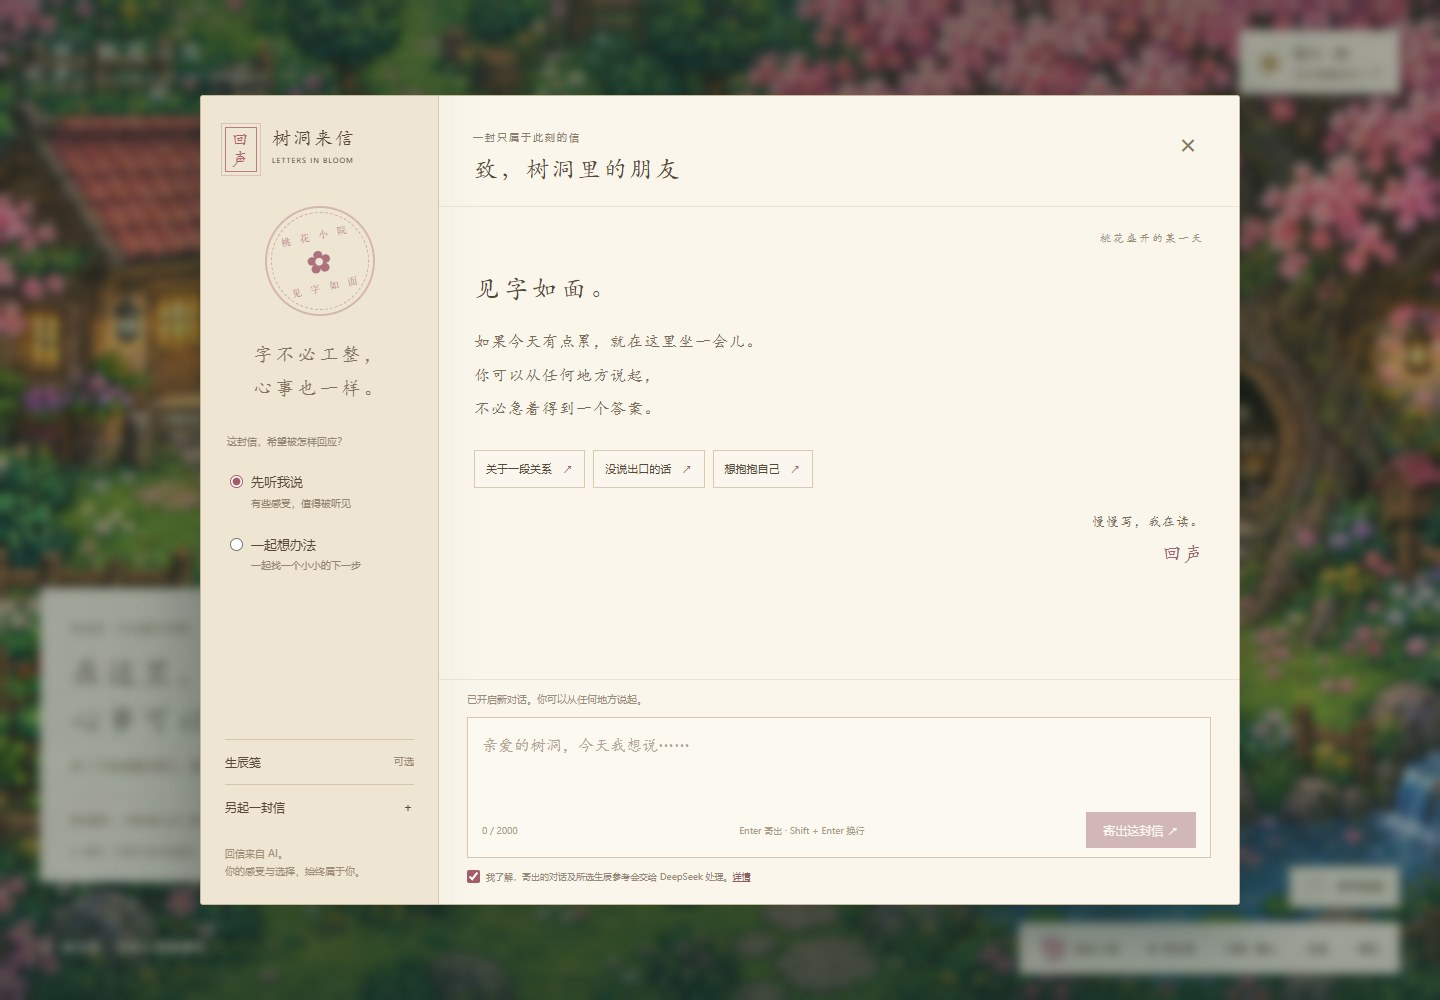
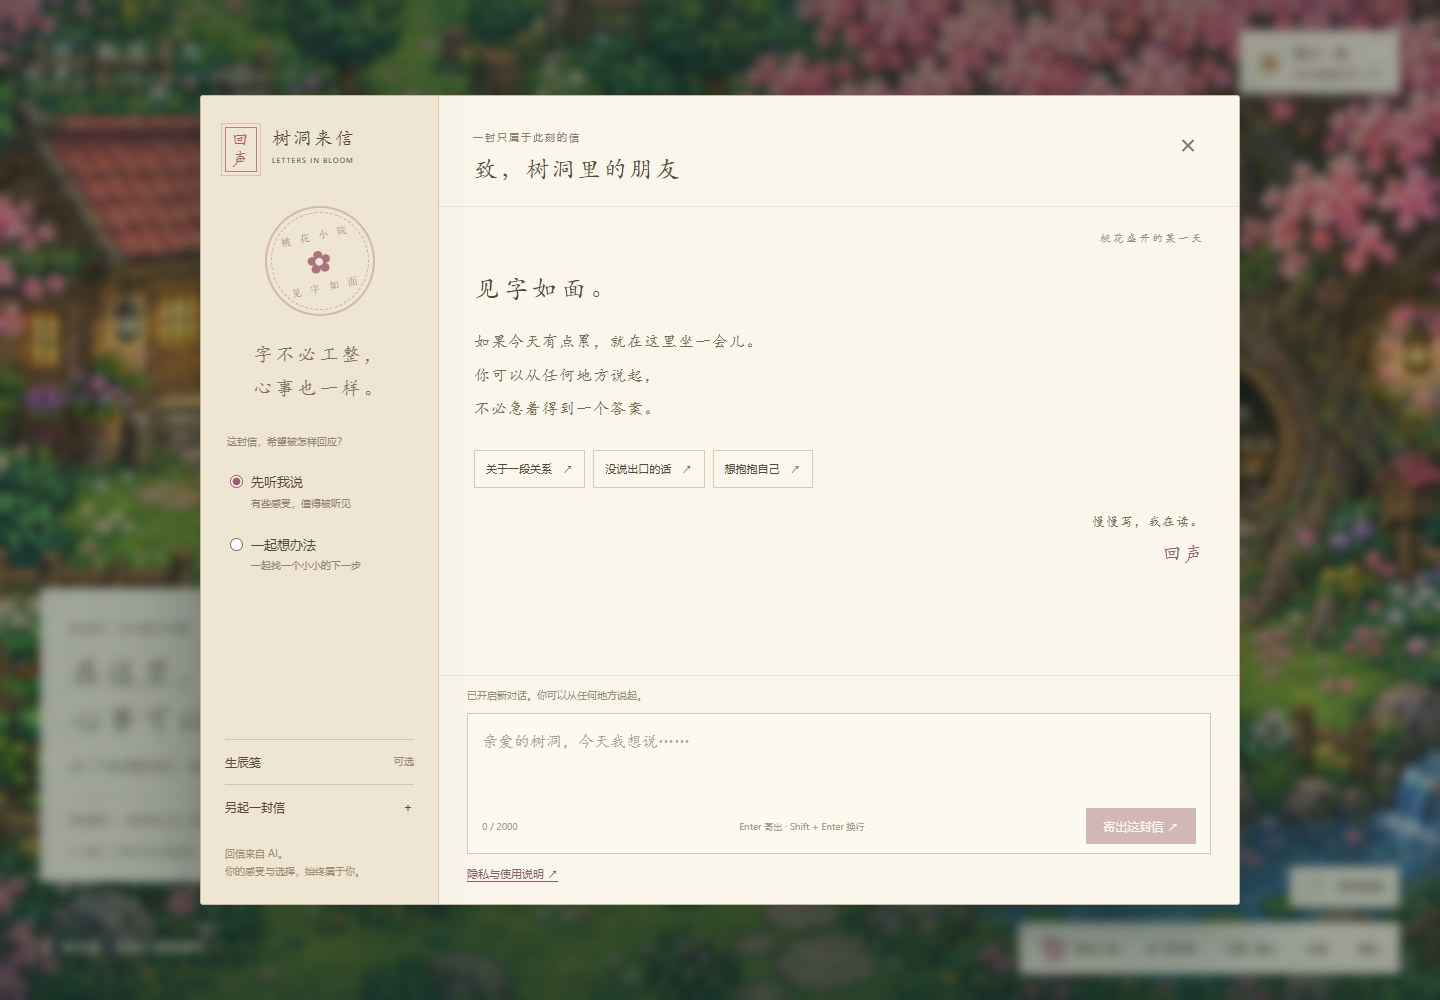
Show chat consent before opening the letter composer

diff --git a/public/index.html b/public/index.html
@@ -14,7 +14,7 @@
     <link rel="stylesheet" href="/style.css" />
     <link rel="stylesheet" href="/cottage.css" />
     <link rel="stylesheet" href="/arrival.css" />
-    <script src="/app.js" defer></script>
+    <script type="module" src="/app.js"></script>
     <script type="module" src="/world.js"></script>
   </head>
   <body>
@@ -489,7 +489,7 @@
           </section>
         </div>
         <p class="announcement-consent">
-          公告关闭不代表同意发送数据；写信前仍需主动勾选 DeepSeek 处理说明。
+          公告关闭不代表同意发送数据；第一次进入树洞时，会单独弹出写信说明，由你确认后再开始。
         </p>
       </div>
       <footer class="announcement-footer">
@@ -498,6 +498,61 @@
         ><button id="announcement-privacy">完整隐私说明 ↗</button
         ><button id="announcement-guide">使用指南 ↗</button>
       </footer>
+    </dialog>
+    <dialog
+      id="chat-consent-dialog"
+      class="chat-consent-dialog"
+      aria-labelledby="chat-consent-title"
+      aria-describedby="chat-consent-intro"
+    >
+      <div class="dialog-heading">
+        <div>
+          <span class="overline">在信纸展开之前</span>
+          <h2 id="chat-consent-title" tabindex="-1" autofocus>
+            先说清楚，再慢慢写
+          </h2>
+        </div>
+        <button
+          data-close="chat-consent-dialog"
+          aria-label="暂不写信，回到小院"
+        >
+          ×
+        </button>
+      </div>
+      <p id="chat-consent-intro">
+        这里的回信来自 AI。开始之前，请了解这封信会如何被处理。
+      </p>
+      <div class="chat-consent-notes">
+        <p>
+          <strong>谁会读到寄出的信？</strong
+          >点击寄出后，来信、最近的对话和你自愿开启的生辰参考，会经本站交给
+          DeepSeek 处理，适用其数据政策。
+        </p>
+        <p>
+          <strong>聊天留在哪里？</strong
+          >本站不持久保存聊天正文和生日。页面中的聊天在刷新、关闭页面或另起新对话后清除；这不会撤回已交给
+          DeepSeek 的内容。
+        </p>
+        <p>
+          <strong>留一点隐私给自己。</strong
+          >请避免填写真实姓名、联系方式或他人的私密信息。AI
+          可能理解有误，也不能替代专业支持。
+        </p>
+      </div>
+      <button id="chat-consent-detail" class="chat-data-link" type="button">
+        查看完整隐私与使用说明 ↗
+      </button>
+      <div class="dialog-actions">
+        <button class="secondary" data-close="chat-consent-dialog">
+          先回小院
+        </button>
+        <button class="primary" id="chat-consent-accept">
+          我了解并同意，开始写信
+        </button>
+      </div>
+      <p class="chat-consent-footnote">
+        确认只对当前页面有效；关闭提示不会代替你同意，也不会寄出任何内容。
+      </p>
     </dialog>
     <dialog
       id="letter-dialog"
@@ -593,16 +648,9 @@
                 ><button type="submit" id="send" disabled>寄出这封信 ↗</button>
               </div>
             </form>
-            <label class="consent"
-              ><input id="consent" type="checkbox" /><span
-                >我了解，寄出的对话及所选生辰参考会交给 DeepSeek 处理。<button
-                  id="consent-detail"
-                  type="button"
-                >
-                  详情
-                </button></span
-              ></label
-            >
+            <button id="consent-detail" class="chat-data-link" type="button">
+              隐私与使用说明 ↗
+            </button>
           </section>
         </section>
       </div>

diff --git a/public/app.js b/public/app.js
@@ -3,12 +3,14 @@ let history = [],
   birth = null,
   ready = false,
   busy = false,
+  chatConsent = false,
   controller = null;
 const dialogs = [
   "birth-dialog",
   "privacy-dialog",
   "clear-dialog",
   "letter-dialog",
+  "chat-consent-dialog",
   "cat-dialog",
   "library-dialog",
   "cottage-dialog",
@@ -27,16 +29,33 @@ function status(text, error = false) {
   $("status").classList.toggle("ready", !error);
 }
 function controls() {
-  $("message").readOnly = busy;
+  $("message").readOnly = busy || !chatConsent;
   $("counter").textContent = `${$("message").value.length} / 2000`;
   $("send").disabled =
-    !ready ||
-    (!$("message").value.trim() && !busy) ||
-    (!$("consent").checked && !busy);
+    !ready || (!$("message").value.trim() && !busy) || (!chatConsent && !busy);
   $("send").textContent = busy ? "停止等待" : "寄出这封信 ↗";
   $("birth-open").disabled = busy;
   $("new-chat").disabled = busy;
 }
+// All entry paths share the same explicit, page-local acknowledgement. Merely
+// closing this notice (or the arrival announcement) never grants permission.
+export function openLetter() {
+  if (!chatConsent) {
+    if (!$("chat-consent-dialog").open) $("chat-consent-dialog").showModal();
+    return;
+  }
+  if (!$("letter-dialog").open) $("letter-dialog").showModal();
+  $("message").focus();
+}
+$("chat-consent-accept").onclick = () => {
+  chatConsent = true;
+  $("chat-consent-dialog").close();
+  controls();
+  openLetter();
+};
+$("chat-consent-dialog").addEventListener("close", () => {
+  if (!chatConsent) $("tree-door").focus({ preventScroll: true });
+});
 function scrollToEnd() {
   const c = $("conversation");
   c.scrollTop = c.scrollHeight;
@@ -71,7 +90,11 @@ async function sendMessage() {
     return;
   }
   const text = $("message").value.trim();
-  if (!text || !ready || !$("consent").checked) return;
+  if (!chatConsent) {
+    openLetter();
+    return;
+  }
+  if (!text || !ready) return;
   const messages = [...history.slice(-20), { role: "user", content: text }];
   if (messages.reduce((n, m) => n + m.content.length, 0) > 20000) {
     status("这段对话已经很长了，请开启新对话再聊。", true);
@@ -162,7 +185,6 @@ $("message").addEventListener("keydown", (e) => {
     if (!$("send").disabled) sendMessage();
   }
 });
-$("consent").addEventListener("change", controls);
 document.querySelectorAll("[data-prompt]").forEach((button) =>
   button.addEventListener("click", () => {
     $("message").value = button.dataset.prompt;
@@ -170,7 +192,7 @@ document.querySelectorAll("[data-prompt]").forEach((button) =>
     $("message").focus();
   }),
 );
-for (const id of ["privacy-open", "consent-detail"])
+for (const id of ["privacy-open", "consent-detail", "chat-consent-detail"])
   $(id).onclick = () => $("privacy-dialog").showModal();
 document
   .querySelectorAll("[data-close]")
@@ -310,8 +332,7 @@ if (document.modelContext?.registerTool) {
             throw new Error("无效草稿或正在回复。");
           $("message").value = input.text;
           controls();
-          if (!$("letter-dialog").open) $("letter-dialog").showModal();
-          $("message").focus();
+          openLetter();
           return { staged: true, sent: false };
         },
       }),

diff --git a/public/style.css b/public/style.css
@@ -862,25 +862,45 @@ textarea:focus-visible {
   min-width: 110px;
   margin-left: auto;
 }
-.consent {
-  display: flex;
-  align-items: flex-start;
-  gap: 6px;
+.chat-data-link {
+  display: inline-block;
   margin-top: 10px;
-  font-size: 9px;
-  line-height: 1.8;
-  color: #968975;
-}
-.consent input {
-  margin: 2px 0 0;
-  flex-shrink: 0;
-}
-.consent button {
   padding: 0;
-  background: none;
-  font-size: 9px;
+  background: transparent;
+  font-size: 11px;
+  line-height: 1.8;
   text-decoration: underline;
+  text-underline-offset: 3px;
   color: #8e5d68;
+}
+.chat-consent-dialog {
+  width: min(560px, calc(100vw - 32px));
+}
+.chat-consent-dialog .overline {
+  display: block;
+  margin-bottom: 7px;
+}
+.chat-consent-notes {
+  border-block: 1px solid #dfd1bb;
+  margin-top: 18px;
+  padding: 5px 0 16px;
+}
+.chat-consent-notes p {
+  margin-top: 13px;
+}
+.chat-consent-notes strong {
+  display: block;
+  font-weight: 500;
+  color: #705b49;
+}
+.chat-consent-dialog .dialog-actions {
+  flex-wrap: wrap;
+  margin-top: 20px;
+}
+.chat-consent-dialog .chat-consent-footnote {
+  font-size: 11px;
+  margin-top: 13px;
+  color: #968975;
 }
 .birth-summary {
   font-size: 10px;
@@ -1405,10 +1425,14 @@ textarea:focus-visible {
     padding: 9px 13px;
     font-size: 11px;
   }
-  .consent {
-    font-size: 9px;
-    line-height: 1.6;
-    margin-top: 8px;
+  .chat-consent-dialog h2 {
+    font-size: 23px;
+  }
+  .chat-consent-dialog .dialog-actions {
+    flex-direction: column-reverse;
+  }
+  .chat-consent-dialog .dialog-actions button {
+    width: 100%;
   }
   .status {
     font-size: 9px;

diff --git a/public/world.js b/public/world.js
@@ -3,18 +3,20 @@ import { createIntroFlight } from "/intro-flight.js";
 import { createCottage } from "/cottage.js";
 import { createCommunityBoard } from "/community.js";
 import { createArrival } from "/arrival.js";
+import { openLetter } from "/app.js";
 const $ = (id) => document.getElementById(id);
 const reduced = matchMedia("(prefers-reduced-motion: reduce)");
 const cottage = createCottage();
 const community = createCommunityBoard();
 let entering = false;
 function enterTree() {
-  if (entering || $("letter-dialog").open) return;
+  if (entering || $("letter-dialog").open || $("chat-consent-dialog").open)
+    return;
   entering = true;
   document.body.classList.add("entering-tree");
   setTimeout(
     () => {
-      $("letter-dialog").showModal();
+      openLetter();
       document.body.classList.remove("entering-tree");
       entering = false;
     },

diff --git a/README.md b/README.md
@@ -10,7 +10,8 @@
 
 ## 已实现
 
-- 每次进入先显示登录/注册或游客选择；关闭窗口也可继续。随后展示项目目的、玩法、隐私与 AI 使用边界公告，实际可见五秒后收起，可暂停阅读或从右下角指南重看。已登录用户可以直接继续；首次访问在公告后选择猫咪毛色。公告不会自动勾选聊天数据处理同意。
+- 每次进入先显示登录/注册或游客选择；关闭窗口也可继续。随后展示项目目的、玩法、隐私与 AI 使用边界公告，实际可见五秒后收起，可暂停阅读或从右下角指南重看。已登录用户可以直接继续；首次访问在公告后选择猫咪毛色。公告不会代替聊天数据处理同意。
+- 第一次进入树洞先弹出数据与 AI 说明，点击“我了解并同意，开始写信”才展开信纸；关闭、返回或按 Escape 都不会视为同意。同意仅在当前页面内存有效，再次进入无需重复确认，刷新后重新提示。信纸底部保留详情入口；确认本身不会寄出内容。
 - 左侧提示纸条在可见状态停留五秒，折成纸飞机沿弧线飞进树洞；底部“纸条”可重放。选猫、打开对话和切到后台时暂停计时或飞行，减少动态效果模式省略折叠与飞行。
 - 原创桃花小院场景，直接点击右侧桃树内部的洞口进入书信聊天；小猫可自定义毛色、有六帧跑步跟随动画，支持鼠标/触摸拖动，拖进洞口也能进入。花瓣可关闭，适配小屏幕与减少动态效果。
 - 左侧木屋可开门进入：小猫趴在地毯上，白手套鼠标可摸头、肚子、爪子和尾巴，分别获得可爱的回应；支持触屏和键盘。心情低时想抱抱，活跃低时打瞌睡，出去跑动增加活跃；小猫永远不会生病或死亡。
@@ -81,6 +82,7 @@ node test/intro.mjs
 # 独立临时实例，不调用模型，也不污染自己的账号或留言
 node test/cottage.mjs
 node test/arrival.mjs
+node test/consent.mjs
 node test/pet-motion.mjs
 ```
 

diff --git a/docs/PRODUCT.md b/docs/PRODUCT.md
@@ -10,7 +10,7 @@
 
 1. 每次进入先选择登录、注册或游客，也能关闭提示直接继续。之后是项目目的、玩法、隐私与 AI 边界公告，实际可见五秒后收起；可暂停阅读或从指南重看，打开完整隐私说明和切到后台时暂停计时。公告不会代替聊天发送前的主动同意。首次访问随后选择小猫毛色。小猫以六帧跑步动画跟随电脑鼠标，停下后站立；电脑和触摸屏都能按住拖动。
 2. 看小院、开关花瓣，直接点击树洞内部的“写一封信”，或把小猫拖进去。缩小屏幕时镜头偏向右侧桃树。
-3. 打开米色信纸。可以选择先倾听或一起想办法；保留同意、停止、错误恢复和清空功能。
+3. 首次进入树洞先显示独立的数据处理说明，明确确认后再展开米色信纸。关闭提示只回到小院，不自动同意或发送；本页内再次进入不重复询问，刷新后重新确认。点击、拖猫、键盘和可选浏览器草稿工具共用此入口，草稿不会因为取消而丢失。可以选择先倾听或一起想办法；保留停止、错误恢复、隐私详情和清空功能。
 4. 用户自行开启生辰笺后才提供传统文化工具。出生时间未知时不补造时柱。
 5. 回信按需要检索资料、提取练习、读取程序排盘。展示实际查阅的来源；它不意味着每一句回答都经过事实验证。
 6. 关闭信纸回到小院。关闭页面或刷新清除聊天；猫咪颜色、动效偏好与养猫状态保存在本机，养猫状态不跟账号同步。
